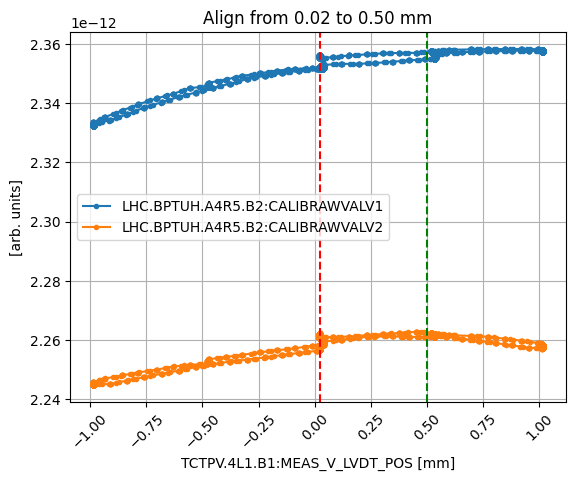
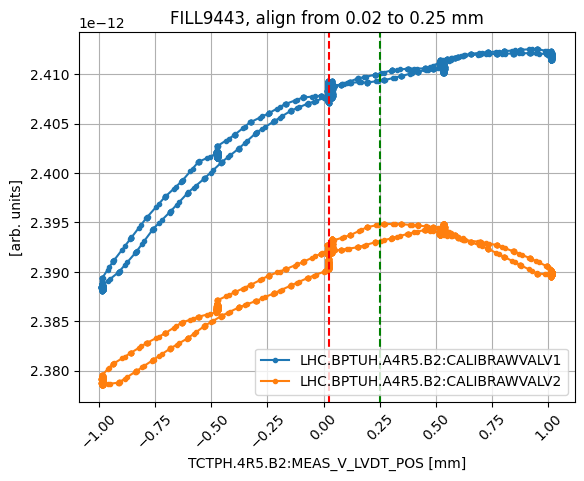
Status

Changed region(s): [[0.0312, 0.0, 1.0, 0.9979]]

diff --git a/find_alignment.py b/find_alignment.py
@@ -72,7 +72,15 @@ df['DCT_B1_FIT'] = df['LHC.BCTDC.A6R4.B1:BEAM_INTENSITY'].rolling(window=5000).m
 df['DCT_B2_FIT'] = df['LHC.BCTDC.A6R4.B2:BEAM_INTENSITY'].rolling(window=5000).mean()
 
 # %%
-# df.to_parquet('data/df.csv')
+# check interpolation of DCT_B1_FIT
+plt.figure()
+plt.plot(df['LHC.BCTDC.A6R4.B1:BEAM_INTENSITY'], label='LHC.BCTDC.A6R4.B1:BEAM_INTENSITY')
+plt.plot(df['DCT_B1_FIT'], label='DCT_B1_FIT')
+
+
+plt.figure()
+plt.plot(df['LHC.BCTDC.A6R4.B2:BEAM_INTENSITY'], label='LHC.BCTDC.A6R4.B1:BEAM_INTENSITY')
+plt.plot(df['DCT_B2_FIT'], label='DCT_B2_FIT')
 
 # %%
 from matplotlib import pyplot as plt
@@ -97,33 +105,33 @@ plt.plot(df[f'TCTP{my_plane}.4{my_string}:MEAS_V_LVDT_POS'].between_time(t0_filt
 plt.axhline(y=initial_offset, color='r', linestyle='--')
 plt.xticks(rotation=45)
 plt.grid()
-plt.title(f'Initial offset {initial_offset:3.2f} mm')
+plt.title(f'FILL9443, initial offset {initial_offset:3.2f} mm')
 plt.ylabel(f'TCTP{my_plane}.4{my_string}:MEAS_V_LVDT_POS [mm]')
 # plot on the secondary y-axis the LHC.BCTDC.A6R4.B1:BEAM_INTENSITY
 plt.twinx()
 plt.plot(df[f'LHC.BCTDC.A6R4.{my_beam}:BEAM_INTENSITY'].between_time(t0_filtered,t1_filtered), label=f'LHC.BCTDC.A6R4.{my_beam}:BEAM_INTENSITY', color='k',alpha=0.1)
 plt.ylabel(f'LHC.BCTDC.A6R4.{my_beam}:BEAM_INTENSITY [p]')
-plt.plot(df['DCT_B1_FIT'].between_time(t0_filtered,t1_filtered), label=f'LHC.BCTDC.A6R4.{my_beam}:BEAM_INTENSITY', color='k')
+plt.plot(df[f'DCT_{my_beam}_FIT'].between_time(t0_filtered,t1_filtered), label=f'LHC.BCTDC.A6R4.{my_beam}:BEAM_INTENSITY', color='k')
 plt.savefig(f'plots/scan_TCTP{my_plane}.4{my_string}.png', bbox_inches='tight')
 # %%
 plt.plot(df[f'TCTP{my_plane}.4{my_string}:MEAS_V_LVDT_POS'].between_time(t0_filtered,t1_filtered),
           df[f'LHC.BPTU{my_plane}.A4{my_string}:CALIBRAWVALV1'].between_time(t0_filtered,t1_filtered)/
-         df['DCT_B1_FIT'].between_time(t0_filtered,t1_filtered),'.-', label=f'LHC.BPTU{my_plane}.A4{my_string}:CALIBRAWVALV1')
+         df[f'DCT_{my_beam}_FIT'].between_time(t0_filtered,t1_filtered),'.-', label=f'LHC.BPTU{my_plane}.A4{my_string}:CALIBRAWVALV1')
 plt.plot(df[f'TCTP{my_plane}.4{my_string}:MEAS_V_LVDT_POS'].between_time(t0_filtered,t1_filtered),
           df[f'LHC.BPTU{my_plane}.A4{my_string}:CALIBRAWVALV2'].between_time(t0_filtered,t1_filtered)/
-          df['DCT_B1_FIT'].between_time(t0_filtered,t1_filtered),'.-', label=f'LHC.BPTU{my_plane}.A4{my_string}:CALIBRAWVALV2')
+          df[f'DCT_{my_beam}_FIT'].between_time(t0_filtered,t1_filtered),'.-', label=f'LHC.BPTU{my_plane}.A4{my_string}:CALIBRAWVALV2')
 plt.xticks(rotation=45)
 plt.grid()
 plt.ylabel('[arb. units]')
-plt.xlabel('TCTPV.4L1.B1:MEAS_V_LVDT_POS [mm]')
+plt.xlabel(f'TCTP{my_plane}.4{my_string}:MEAS_V_LVDT_POS [mm]')
 plt.legend()
 # plot vertical line at the 'LHC.BPTUV.A4L1.B1:CALIBRAWVALV1' maximum
 initial_offset = df[f'TCTP{my_plane}.4{my_string}:MEAS_V_LVDT_POS'].between_time(t0_filtered,t1_filtered).dropna()[0]
-offset = 0.5
+offset = 0.
 plt.axvline(x=initial_offset, color='r', linestyle='--')
 plt.axvline(x=offset, color='g', linestyle='--')
 
-plt.title(f'Align from {initial_offset:3.2f} to {offset:3.2f} mm')
+plt.title(f'FILL9443, align from {initial_offset:3.2f} to {offset:3.2f} mm')
 plt.savefig(f'plots/result_TCTP{my_plane}.4{my_string}.png', bbox_inches='tight')
 
 # %%
@@ -148,25 +156,25 @@ plt.plot(df[f'TCTP{my_plane}.4{my_string}:MEAS_V_LVDT_POS'].between_time(t0_filt
 plt.axhline(y=initial_offset, color='r', linestyle='--')
 plt.xticks(rotation=45)
 plt.grid()
-plt.title(f'Initial offset {initial_offset:3.2f} mm')
+plt.title(f'FILL9443, initial offset {initial_offset:3.2f} mm')
 plt.ylabel(f'TCTP{my_plane}.4{my_string}:MEAS_V_LVDT_POS [mm]')
 # plot on the secondary y-axis the LHC.BCTDC.A6R4.B1:BEAM_INTENSITY
 plt.twinx()
 plt.plot(df[f'LHC.BCTDC.A6R4.{my_beam}:BEAM_INTENSITY'].between_time(t0_filtered,t1_filtered), label=f'LHC.BCTDC.A6R4.{my_beam}:BEAM_INTENSITY', color='k',alpha=0.1)
 plt.ylabel(f'LHC.BCTDC.A6R4.{my_beam}:BEAM_INTENSITY [p]')
-plt.plot(df['DCT_B1_FIT'].between_time(t0_filtered,t1_filtered), label=f'LHC.BCTDC.A6R4.{my_beam}:BEAM_INTENSITY', color='k')
+plt.plot(df[f'DCT_{my_beam}_FIT'].between_time(t0_filtered,t1_filtered), label=f'LHC.BCTDC.A6R4.{my_beam}:BEAM_INTENSITY', color='k')
 plt.savefig(f'plots/scan_TCTP{my_plane}.4{my_string}.png', bbox_inches='tight')
 # %%
 plt.plot(df[f'TCTP{my_plane}.4{my_string}:MEAS_V_LVDT_POS'].between_time(t0_filtered,t1_filtered),
           df[f'LHC.BPTU{my_plane}.A4{my_string}:CALIBRAWVALV1'].between_time(t0_filtered,t1_filtered)/
-         df['DCT_B1_FIT'].between_time(t0_filtered,t1_filtered),'.-', label=f'LHC.BPTU{my_plane}.A4{my_string}:CALIBRAWVALV1')
+         df[f'DCT_{my_beam}_FIT'].between_time(t0_filtered,t1_filtered),'.-', label=f'LHC.BPTU{my_plane}.A4{my_string}:CALIBRAWVALV1')
 plt.plot(df[f'TCTP{my_plane}.4{my_string}:MEAS_V_LVDT_POS'].between_time(t0_filtered,t1_filtered),
           df[f'LHC.BPTU{my_plane}.A4{my_string}:CALIBRAWVALV2'].between_time(t0_filtered,t1_filtered)/
-          df['DCT_B1_FIT'].between_time(t0_filtered,t1_filtered),'.-', label=f'LHC.BPTU{my_plane}.A4{my_string}:CALIBRAWVALV2')
+          df[f'DCT_{my_beam}_FIT'].between_time(t0_filtered,t1_filtered),'.-', label=f'LHC.BPTU{my_plane}.A4{my_string}:CALIBRAWVALV2')
 plt.xticks(rotation=45)
 plt.grid()
 plt.ylabel('[arb. units]')
-plt.xlabel('TCTPV.4L1.B1:MEAS_V_LVDT_POS [mm]')
+plt.xlabel(f'TCTP{my_plane}.4{my_string} [mm]')
 plt.legend()
 # plot vertical line at the 'LHC.BPTUV.A4L1.B1:CALIBRAWVALV1' maximum
 initial_offset = df[f'TCTP{my_plane}.4{my_string}:MEAS_V_LVDT_POS'].between_time(t0_filtered,t1_filtered).dropna()[0]
@@ -174,7 +182,7 @@ offset = 0.5
 plt.axvline(x=initial_offset, color='r', linestyle='--')
 plt.axvline(x=offset, color='g', linestyle='--')
 
-plt.title(f'Align from {initial_offset:3.2f} to {offset:3.2f} mm')
+plt.title(f'FILL9443, align from {initial_offset:3.2f} to {offset:3.2f} mm')
 plt.savefig(f'plots/result_TCTP{my_plane}.4{my_string}.png', bbox_inches='tight')
 
 # %%
@@ -199,25 +207,25 @@ plt.plot(df[f'TCTP{my_plane}.4{my_string}:MEAS_V_LVDT_POS'].between_time(t0_filt
 plt.axhline(y=initial_offset, color='r', linestyle='--')
 plt.xticks(rotation=45)
 plt.grid()
-plt.title(f'Initial offset {initial_offset:3.2f} mm')
+plt.title(f'FILL9443, initial offset {initial_offset:3.2f} mm')
 plt.ylabel(f'TCTP{my_plane}.4{my_string}:MEAS_V_LVDT_POS [mm]')
 # plot on the secondary y-axis the LHC.BCTDC.A6R4.B1:BEAM_INTENSITY
 plt.twinx()
 plt.plot(df[f'LHC.BCTDC.A6R4.{my_beam}:BEAM_INTENSITY'].between_time(t0_filtered,t1_filtered), label=f'LHC.BCTDC.A6R4.{my_beam}:BEAM_INTENSITY', color='k',alpha=0.1)
 plt.ylabel(f'LHC.BCTDC.A6R4.{my_beam}:BEAM_INTENSITY [p]')
-plt.plot(df['DCT_B1_FIT'].between_time(t0_filtered,t1_filtered), label=f'LHC.BCTDC.A6R4.{my_beam}:BEAM_INTENSITY', color='k')
+plt.plot(df[f'DCT_{my_beam}_FIT'].between_time(t0_filtered,t1_filtered), label=f'LHC.BCTDC.A6R4.{my_beam}:BEAM_INTENSITY', color='k')
 plt.savefig(f'plots/scan_TCTP{my_plane}.4{my_string}.png', bbox_inches='tight')
 # %%
 plt.plot(df[f'TCTP{my_plane}.4{my_string}:MEAS_V_LVDT_POS'].between_time(t0_filtered,t1_filtered),
           df[f'LHC.BPTU{my_plane}.A4{my_string}:CALIBRAWVALV1'].between_time(t0_filtered,t1_filtered)/
-         df['DCT_B1_FIT'].between_time(t0_filtered,t1_filtered),'.-', label=f'LHC.BPTU{my_plane}.A4{my_string}:CALIBRAWVALV1')
+         df[f'DCT_{my_beam}_FIT'].between_time(t0_filtered,t1_filtered),'.-', label=f'LHC.BPTU{my_plane}.A4{my_string}:CALIBRAWVALV1')
 plt.plot(df[f'TCTP{my_plane}.4{my_string}:MEAS_V_LVDT_POS'].between_time(t0_filtered,t1_filtered),
           df[f'LHC.BPTU{my_plane}.A4{my_string}:CALIBRAWVALV2'].between_time(t0_filtered,t1_filtered)/
-          df['DCT_B1_FIT'].between_time(t0_filtered,t1_filtered),'.-', label=f'LHC.BPTU{my_plane}.A4{my_string}:CALIBRAWVALV2')
+          df[f'DCT_{my_beam}_FIT'].between_time(t0_filtered,t1_filtered),'.-', label=f'LHC.BPTU{my_plane}.A4{my_string}:CALIBRAWVALV2')
 plt.xticks(rotation=45)
 plt.grid()
 plt.ylabel('[arb. units]')
-plt.xlabel('TCTPV.4L1.B1:MEAS_V_LVDT_POS [mm]')
+plt.xlabel(f'TCTP{my_plane}.4{my_string}:MEAS_V_LVDT_POS [mm]')
 plt.legend()
 # plot vertical line at the 'LHC.BPTUV.A4L1.B1:CALIBRAWVALV1' maximum
 initial_offset = df[f'TCTP{my_plane}.4{my_string}:MEAS_V_LVDT_POS'].between_time(t0_filtered,t1_filtered).dropna()[0]
@@ -225,7 +233,7 @@ offset = 1.15
 plt.axvline(x=initial_offset, color='r', linestyle='--')
 plt.axvline(x=offset, color='g', linestyle='--')
 
-plt.title(f'Align from {initial_offset:3.2f} to {offset:3.2f} mm')
+plt.title(f'FILL9443, align from {initial_offset:3.2f} to {offset:3.2f} mm')
 plt.savefig(f'plots/result_TCTP{my_plane}.4{my_string}.png', bbox_inches='tight')
 # %%
 t0_filtered="19:18"
@@ -249,32 +257,32 @@ plt.plot(df[f'TCTP{my_plane}.4{my_string}:MEAS_V_LVDT_POS'].between_time(t0_filt
 plt.axhline(y=initial_offset, color='r', linestyle='--')
 plt.xticks(rotation=45)
 plt.grid()
-plt.title(f'Initial offset {initial_offset:3.2f} mm')
+plt.title(f'FILL9443, initial offset {initial_offset:3.2f} mm')
 plt.ylabel(f'TCTP{my_plane}.4{my_string}:MEAS_V_LVDT_POS [mm]')
 # plot on the secondary y-axis the LHC.BCTDC.A6R4.B1:BEAM_INTENSITY
 plt.twinx()
 plt.plot(df[f'LHC.BCTDC.A6R4.{my_beam}:BEAM_INTENSITY'].between_time(t0_filtered,t1_filtered), label=f'LHC.BCTDC.A6R4.{my_beam}:BEAM_INTENSITY', color='k',alpha=0.1)
 plt.ylabel(f'LHC.BCTDC.A6R4.{my_beam}:BEAM_INTENSITY [p]')
-plt.plot(df['DCT_B1_FIT'].between_time(t0_filtered,t1_filtered), label=f'LHC.BCTDC.A6R4.{my_beam}:BEAM_INTENSITY', color='k')
+plt.plot(df[f'DCT_{my_beam}_FIT'].between_time(t0_filtered,t1_filtered), label=f'LHC.BCTDC.A6R4.{my_beam}:BEAM_INTENSITY', color='k')
 plt.savefig(f'plots/scan_TCTP{my_plane}.4{my_string}.png', bbox_inches='tight')
 # %%
 plt.plot(df[f'TCTP{my_plane}.4{my_string}:MEAS_V_LVDT_POS'].between_time(t0_filtered,t1_filtered),
           df[f'LHC.BPTU{my_plane}.A4{my_string}:CALIBRAWVALV1'].between_time(t0_filtered,t1_filtered)/
-         df['DCT_B1_FIT'].between_time(t0_filtered,t1_filtered),'.-', label=f'LHC.BPTU{my_plane}.A4{my_string}:CALIBRAWVALV1')
+         df[f'DCT_{my_beam}_FIT'].between_time(t0_filtered,t1_filtered),'.-', label=f'LHC.BPTU{my_plane}.A4{my_string}:CALIBRAWVALV1')
 plt.plot(df[f'TCTP{my_plane}.4{my_string}:MEAS_V_LVDT_POS'].between_time(t0_filtered,t1_filtered),
           df[f'LHC.BPTU{my_plane}.A4{my_string}:CALIBRAWVALV2'].between_time(t0_filtered,t1_filtered)/
-          df['DCT_B1_FIT'].between_time(t0_filtered,t1_filtered),'.-', label=f'LHC.BPTU{my_plane}.A4{my_string}:CALIBRAWVALV2')
+          df[f'DCT_{my_beam}_FIT'].between_time(t0_filtered,t1_filtered)+.08e-12,'.-', label=f'LHC.BPTU{my_plane}.A4{my_string}:CALIBRAWVALV2')
 plt.xticks(rotation=45)
 plt.grid()
 plt.ylabel('[arb. units]')
-plt.xlabel('TCTPV.4L1.B1:MEAS_V_LVDT_POS [mm]')
+plt.xlabel(f'TCTP{my_plane}.4{my_string}:MEAS_V_LVDT_POS [mm]')
 plt.legend()
 # plot vertical line at the 'LHC.BPTUV.A4L1.B1:CALIBRAWVALV1' maximum
 initial_offset = df[f'TCTP{my_plane}.4{my_string}:MEAS_V_LVDT_POS'].between_time(t0_filtered,t1_filtered).dropna()[0]
-offset = 0.50
+offset = 0.25
 plt.axvline(x=initial_offset, color='r', linestyle='--')
 plt.axvline(x=offset, color='g', linestyle='--')
 
-plt.title(f'Align from {initial_offset:3.2f} to {offset:3.2f} mm')
+plt.title(f'FILL9443, align from {initial_offset:3.2f} to {offset:3.2f} mm')
 plt.savefig(f'plots/result_TCTP{my_plane}.4{my_string}.png', bbox_inches='tight')
 # %%
